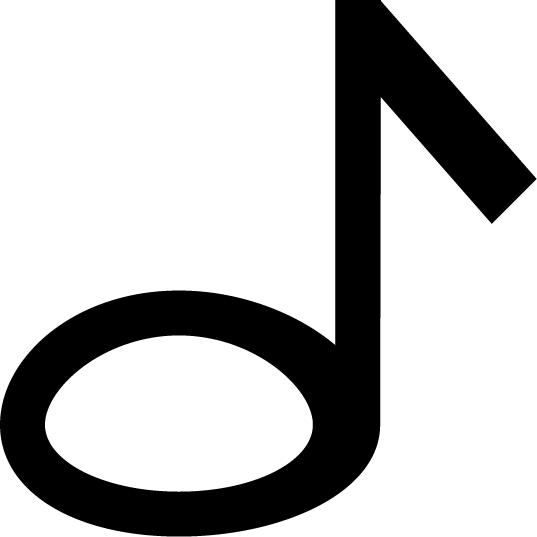
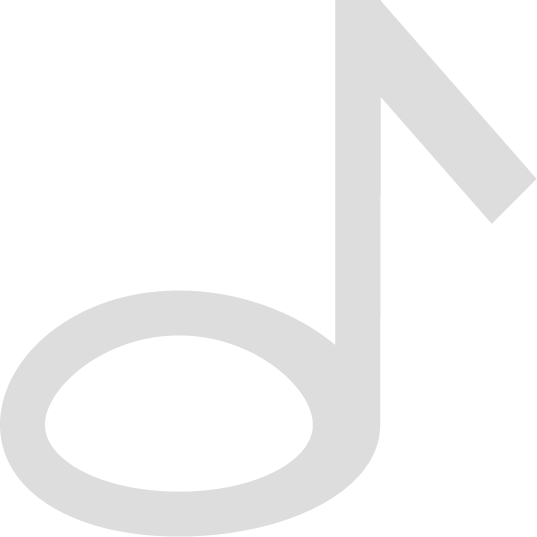
修改收藏夹图标样式

Changed region(s): [[0.0, 0.0, 1.0, 1.0]]

diff --git a/entry/src/main/ets/theme/size.ts b/entry/src/main/ets/theme/size.ts
@@ -9,6 +9,7 @@ export const bigFontSize:number = 25;
 export const blockBorderRaduis:number = 15;
 export const smallAvaterSize:number = 30;
 export const middleAvaterSize:number = 40;
+export const roundedSquareSize:number = 60;
 export const bigAvaterSize:number = 80;
 export const swiperHeight:number = 180;
 export const lineHeight:number = 20;
